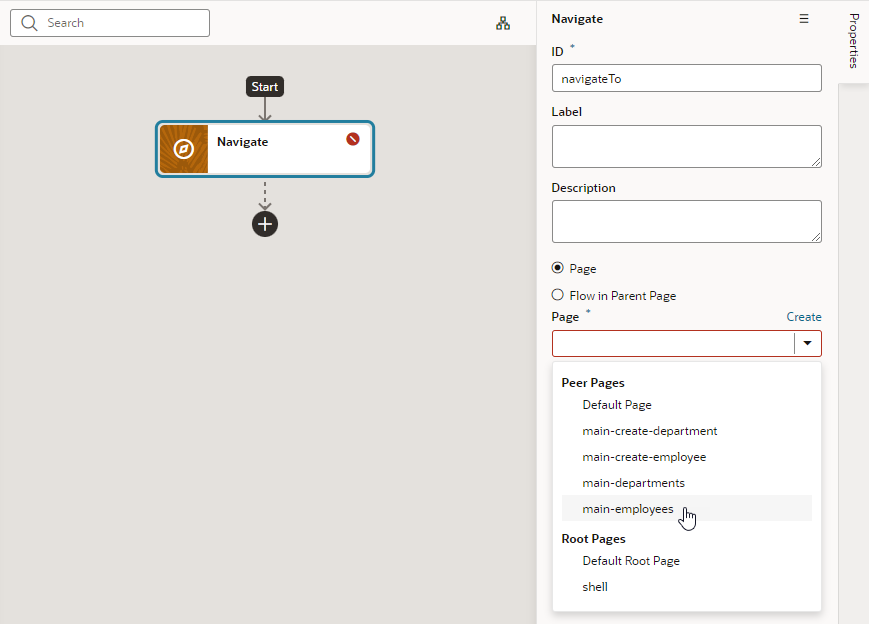
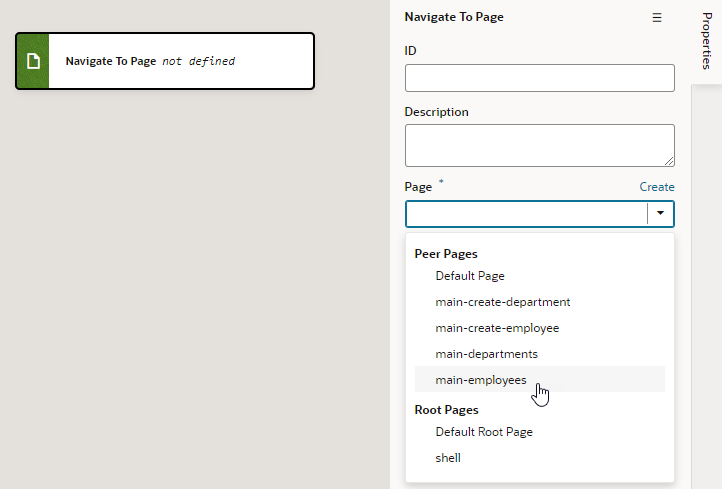
23.10

Changed region(s): [[0.0, 0.0, 0.9446, 1.0], [0.9751, 0.0, 1.0, 0.1534], [0.2742, 0.3374, 0.3352, 0.3988]]

diff --git a/visual-builder/standalone/create-pub-webapp/add-nav-and-data/add-nav-and-data.md b/visual-builder/standalone/create-pub-webapp/add-nav-and-data/add-nav-and-data.md
@@ -35,15 +35,15 @@ This lab assumes you have:
 
     An empty action chain with the ID **ButtonActionChain** is created.
 
-5. In the Actions palette, scroll down to the **Navigation** section, then drag the **Navigate** action to the **+** sign pointed to by the **Start** arrow.
+5. In the Actions palette, scroll down to the **Navigation** section, then drag the **Navigate To Page** action onto the canvas.
 
-    ![This image shows the Action Chain editor, with the Navigate action being dragged to + sign on the diagram area.](images/new-buttonactionchain.png "")
+    ![This image shows the Action Chain editor, with the Navigate To Page action being dragged onto the diagram area.](images/new-buttonactionchain.png "")
 
-6. In the Navigate action's Properties pane, select **main-employees** from the **Page** drop-down list.
+6. In the Navigate To Page action's Properties pane, select **main-employees** from the **Page** list.
 
-    ![This image shows the Action Chain editor, with the Navigate action added to the action chain, and main-employees under Peer Pages selected in the Page drop-down list. A warning icon appears on the Navigate icon because the target has not yet been selected.](images/departments-button-events-navigate.png "")
+    ![The Action Chain editor is shown, with the Navigate To Page action, and main-employees under Peer Pages selected in the Page drop-down list.](images/departments-button-events-navigate.png "")
 
-    The action now has the label `Navigate main-employees`.
+    The action now has the label `Navigate To Page main-employees`.
 
 7. Click **Preview** ![Preview icon](images/preview-icon.png) in the header to run the page in its own browser tab and see how it will appear to a user. (You can use the Live mode to test your app if you prefer, though the Preview form factor is a bit more pleasing.)
 
@@ -63,11 +63,11 @@ This lab assumes you have:
 
     Another empty action chain with the ID **ButtonActionChain** is created. Because this action chain is for a different page, it doesn't matter that it has the same name as the one for the main-departments page.
 
-5. Drag the **Navigate** action from the **Navigation** section of the Actions palette to the **+** sign pointed to by the **Start** arrow.
+5. Drag the **Navigate To Page** action from the **Navigation** section of the Actions palette onto the canvas.
 
-6. In the Navigate action's Properties pane, select **main-departments** from the **Page** drop-down list.
+6. In the Navigate To Page action's Properties pane, select **main-departments** from the **Page** list.
 
-    The action now has the label `Navigate main-departments`.
+    The action now has the label `Navigate To Page main-departments`.
 
 7. Now click **Preview** ![Preview icon](images/preview-icon.png), then **Show Employees** in the new browser tab. Make sure you can get to the Departments page from the Employees page. Close the browser tab.
 
@@ -80,4 +80,4 @@ This lab assumes you have:
 ## Acknowledgements
 
 * **Author** - Sheryl Manoharan, Visual Builder User Assistance, August 2021
-* **Last Updated By** - February 2023
+* **Last Updated By** - August 2023
